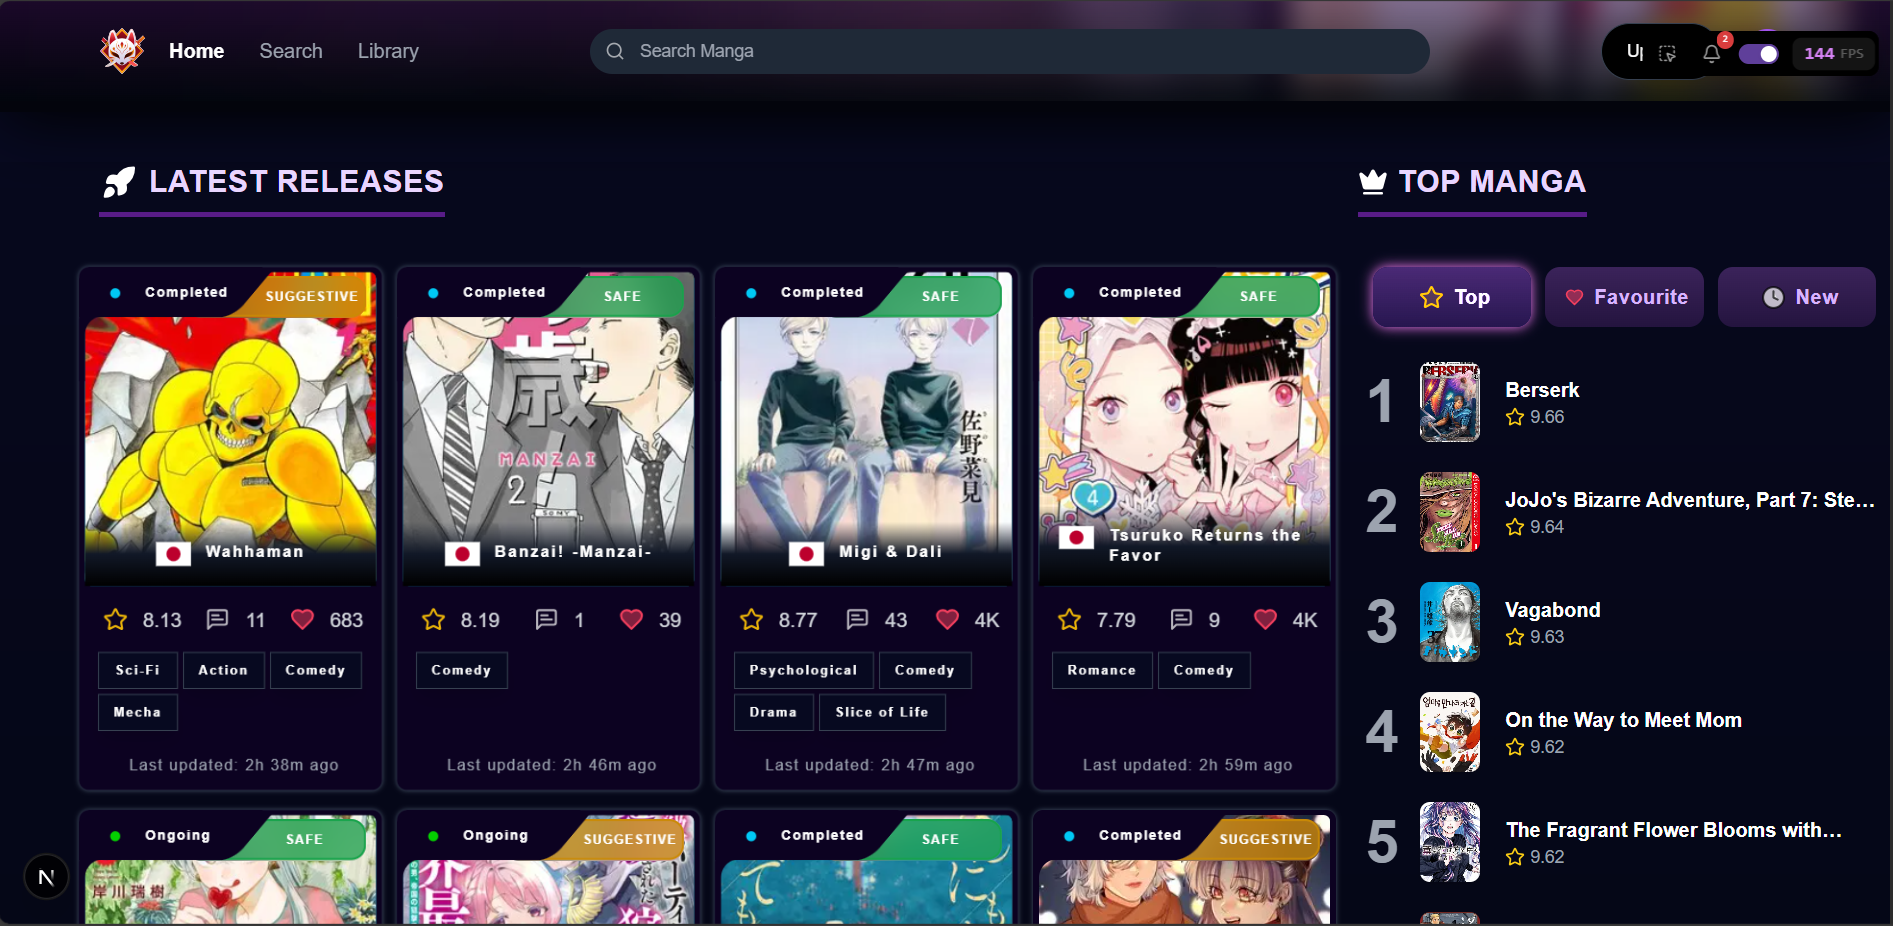
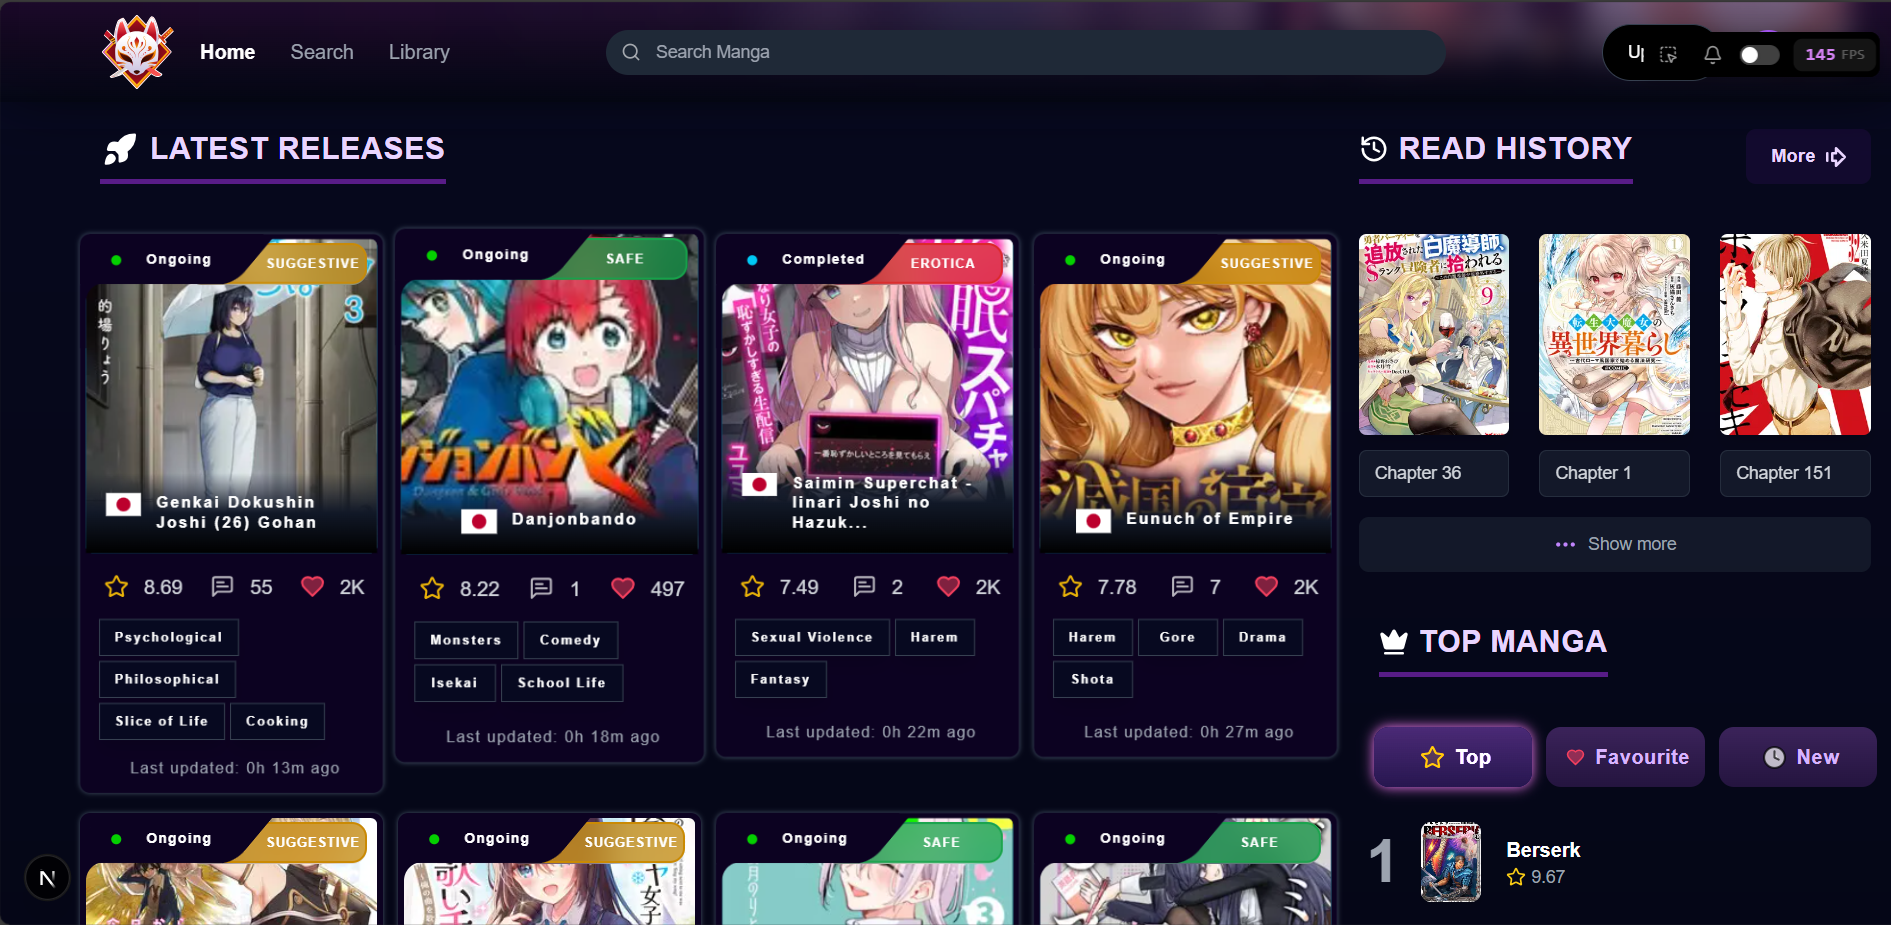
fixed the folder strucure of providers ...then went to MangaContext and made the histroy have the manga,chapters,lastreadChapter and AllChapterList ...then added the new component in the Mnaga-list which shows the manga of which user has seen atleast one chapter ...and when clicked on manga coverima

diff --git a/app/Components/MangaListComponents/MangaReadHistory.jsx b/app/Components/MangaListComponents/MangaReadHistory.jsx
@@ -1,0 +1,124 @@
+import React, { useState, useEffect, useCallback } from 'react';
+import { useManga } from '../../providers/MangaContext';
+import { History, BookOpen, ArrowBigRightDash, Ellipsis, Plus } from 'lucide-react';
+import Image from 'next/image';
+import { useRouter } from 'next/navigation';
+
+function MangaReadHistory() {
+    const { getAllFromReadHistory, addToReadHistory, setChapterListForManga } = useManga();
+    const [readHistory, setReadHistory] = useState([]);
+    const router = useRouter();
+    const [shownMangasInHistory, setShownMangasInHistory] = useState(3)
+    const { setSelectedManga } = useManga()
+    useEffect(() => {
+        const history = getAllFromReadHistory();
+        setReadHistory(history || []);
+    }, [getAllFromReadHistory]);
+
+    const handleMangaCoverImageClicked = useCallback((manga) => {
+        setSelectedManga(manga);
+        router.push(`/manga/${manga.id}/chapters`);
+    }, [])
+
+    const handleChapterClicked = useCallback(
+        (manga, chapter, allChaptersList) => {
+            setChapterListForManga(manga.id, allChaptersList);
+            addToReadHistory(manga, chapter, allChaptersList)
+            router.push(`/manga/${manga.id}/chapter/${chapter.id}/read`);
+        },
+        [router] // Added chapters to dependencies
+    );
+
+
+    return (
+        <div className="w-full mb-9 overflow-hidden  pl-2 sm:pl-7">
+            {/* Header */}
+            <div className="pb-7 text-lg lg:text-2xl flex flex-row justify-between font-bold text-purple-200 tracking-wide uppercase ">
+                <h1 className="border-b-4 border-purple-900 flex flex-row w-fit gap-2 items-center pb-2">
+                    <History className="w-6 h-6 text-white " />
+                    <span className="line-clamp-1">
+                        Read History
+                    </span>
+                </h1>
+                <button className='text-sm p-1 pl-5 pr-4 rounded-lg mr-4 bg-purple-700/10 flex items-center gap-1 flex-row'>More <ArrowBigRightDash /></button>
+            </div>
+
+            {/* Content */}
+            <div className=" pb-1 pt-3">
+                {readHistory.length === 0 ? (
+                    <div className="flex flex-col items-center justify-center py-5">
+                        <div className="w-20 h-20 bg-gray-800 rounded-full flex items-center justify-center mb-6">
+                            <BookOpen className="w-10 h-10 text-gray-500" />
+                        </div>
+                        <h3 className="text-xl font-semibold text-gray-300 mb-2">No Reading History</h3>
+                        <p className="text-gray-500 text-center max-w-md">
+                            Start reading manga to see your reading history here
+                        </p>
+                    </div>
+                ) : (
+                    <>
+                        <div className="grid grid-cols-3 gap-6 mr-4">
+                            {readHistory.slice(0, shownMangasInHistory).map((item) => (
+                                <div
+                                    key={item.manga.id}
+                                    className="cursor-pointer"
+                                >
+                                    {/* Manga Cover */}
+                                    <div
+                                        onClick={() => handleMangaCoverImageClicked(item.manga)}
+                                        className="relative mb-3">
+                                        <Image
+                                            width={300}
+                                            height={300}
+                                            src={item.manga.coverImageUrl}
+                                            alt={item.manga.title}
+                                            className="w-full aspect-[3/4] object-cover rounded-md shadow-lg  transition-all duration-300 hover:scale-[102%]"
+                                            onError={(e) => {
[1 lines of base64/hex data omitted]
+                                            }}
+                                        />
+                                    </div>
+
+                                    {/* Chapter List */}
+                                    <div className="space-y-2">
+                                        {item.chapters?.slice(0, 1).map((chapter) => (
+                                            <div
+                                                key={chapter.id}
+                                                onClick={() => handleChapterClicked(item.manga, chapter, item.allChaptersList)}
+                                                className="bg-gray-800/50 backdrop-blur-sm rounded-md px-3 py-2 border border-gray-700/50 hover:border-purple-500/50 transition-colors duration-200"
+                                            >
+                                                <div className="text-sm text-gray-300">
+                                                    Chapter {chapter.chapter}
+                                                </div>
+                                            </div>
+                                        ))}
+
+                                    </div>
+                                </div>
+                            ))}
+                        </div>
+                        {readHistory.length>3 &&<div
+                            onClick={() => {
+                                if (shownMangasInHistory == readHistory.length) {
+                                    setShownMangasInHistory(3)
+                                }
+                                else {
+                                    setShownMangasInHistory(readHistory.length)
+                                }
+
+                            }
+                            }
+                            className="w-[100% - 16px] flex mr-4 justify-center items-center gap-2 py-3 bg-gray-800/50 rounded-lg mt-4 hover:bg-gray-700/70 transition-colors duration-200 cursor-pointer">
+                            <Ellipsis className="w-5 h-5 text-purple-400" />
+                            <span className="text-sm font-medium text-gray-400">
+                                Show {shownMangasInHistory == readHistory.length ? "less" : `more `} 
+                            </span>
+                        </div>}
+                    </>
+                )}
+            </div>
+        </div>
+    );
+}
+
+export default MangaReadHistory;

diff --git a/app/providers/MangaContext.tsx b/app/providers/MangaContext.tsx
@@ -98,25 +98,33 @@ interface Chapter {
   [key: string]: any;
 }
 
+// Define ReadHistoryEntry type with allChaptersList
+interface ReadHistoryEntry {
+  manga: Manga;
+  chapters: Chapter[];
+  lastChapterRead: Chapter | null;
+  allChaptersList: Chapter[];
+}
+
 // Define Favorite type
 interface Favorite {
   mangaInfo: Manga;
   chapterInfo: Chapter[];
 }
 
-// Update MangaContextType to include favorites
+// Update MangaContextType to reflect the new readHistory structure
 interface MangaContextType {
   selectedManga: Manga | null;
   setSelectedManga: (manga: Manga | null) => void;
   getSelectedManga: () => Manga | null;
-  addToReadHistory: (manga: Manga) => void;
-  getAllFromReadHistory: () => Manga[];
+  addToReadHistory: (manga: Manga, chapter?: Chapter, allChaptersList?: Chapter[]) => void;
+  getAllFromReadHistory: () => ReadHistoryEntry[];
   addToFavoriteChapter: (chapter: Chapter) => void;
   getAllFromFavoriteChapter: () => Chapter[];
   setChapterListForManga: (mangaId: string, chapters: Chapter[]) => void;
   getChapterListForManga: (mangaId: string) => Chapter[];
-  addToFavorite: (manga: Manga, chapter?: Chapter) => void; // New method
-  getAllFavorites: () => { [mangaId: string]: Favorite }; // New method
+  addToFavorite: (manga: Manga, chapter?: Chapter) => void;
+  getAllFavorites: () => { [mangaId: string]: Favorite };
 }
 
 const MangaContext = createContext<MangaContextType | undefined>(undefined);
@@ -127,15 +135,15 @@ const STORAGE_KEYS = {
   FAVORITE_CHAPTERS: 'favoriteChapters',
   CHAPTER_LIST: 'chapterList',
   SELECTED_MANGA: 'selectedManga',
-  FAVORITES: 'favorites', // New storage key for favorites
+  FAVORITES: 'favorites',
 };
 
 export function MangaProvider({ children }: { children: ReactNode }) {
   const [selectedManga, setSelectedMangaState] = useState<Manga | null>(null);
-  const [readHistory, setReadHistory] = useState<Manga[]>([]);
+  const [readHistory, setReadHistory] = useState<ReadHistoryEntry[]>([]);
   const [favoriteChapters, setFavoriteChapters] = useState<Chapter[]>([]);
   const [chapterLists, setChapterLists] = useState<{ [mangaId: string]: Chapter[] }>({});
-  const [favorites, setFavorites] = useState<{ [mangaId: string]: Favorite }>({}); // New state for favorites
+  const [favorites, setFavorites] = useState<{ [mangaId: string]: Favorite }>({});
 
   // Load data from localStorage on mount
   useEffect(() => {
@@ -193,9 +201,39 @@ export function MangaProvider({ children }: { children: ReactNode }) {
   };
 
   // Read History Methods
-  const addToReadHistory = (manga: Manga) => {
+  const addToReadHistory = (manga: Manga, chapter?: Chapter, allChaptersList?: Chapter[]) => {
     setReadHistory((prev) => {
-      const updatedHistory = [manga, ...prev.filter((item) => item.id !== manga.id)].slice(0, 50);
+      const existingEntry = prev.find((entry) => entry.manga.id === manga.id);
+      let updatedHistory: ReadHistoryEntry[];
+
+      if (existingEntry) {
+        // Update existing entry
+        const updatedChapters = chapter
+          ? [chapter, ...existingEntry.chapters.filter((ch) => ch.id !== chapter.id)]
+          : existingEntry.chapters;
+        updatedHistory = prev.map((entry) =>
+          entry.manga.id === manga.id
+            ? {
+                manga,
+                chapters: updatedChapters,
+                lastChapterRead: chapter || existingEntry.lastChapterRead,
+                allChaptersList: allChaptersList || existingEntry.allChaptersList,
+              }
+            : entry
+        );
+      } else {
+        // Add new entry
+        updatedHistory = [
+          {
+            manga,
+            chapters: chapter ? [chapter] : [],
+            lastChapterRead: chapter || null,
+            allChaptersList: allChaptersList || [],
+          },
+          ...prev,
+        ].slice(0, 50); // Limit history to 50 entries
+      }
+
       try {
         localStorage.setItem(STORAGE_KEYS.READ_HISTORY, JSON.stringify(updatedHistory));
       } catch (error) {

diff --git a/app/(core)/manga/[mangaId]/chapter/[chapterId]/read/page.jsx b/app/(core)/manga/[mangaId]/chapter/[chapterId]/read/page.jsx
@@ -4,7 +4,7 @@ import { useQuery } from '@tanstack/react-query';
 import { useState, useEffect, memo, useCallback, lazy, useRef, useMemo } from 'react';
 import { useParams, useRouter } from 'next/navigation';
 import { ArrowUp } from 'lucide-react';
-import { useManga } from '../../../../../../../components/providers/MangaContext';
+import { useManga } from '../../../../../../providers/MangaContext';
 
 const InfoSidebar = memo(lazy(() => import('../../../../../../Components/ReadChapterComponents/InfoSideBarModules/InfoSidebar')));
 const BottomSettings = memo(lazy(() => import('../../../../../../Components/ReadChapterComponents/BottomSettingsModules/BottomSettings')));
@@ -28,9 +28,9 @@ export default function ReadChapter() {
   const [quality, setQuality] = useState("low");
 
   const scrollContainerRef = useRef(null);
-    const { selectedManga, getChapterListForManga } = useManga();
-    const chapters =useMemo(()=>getChapterListForManga(mangaId))
-   const chapterInfo = useMemo(()=> chapters.filter((x)=>x.id==chapterId)[0]);
+  const { selectedManga, getChapterListForManga,addToReadHistory } = useManga();
+  const chapters = useMemo(() => getChapterListForManga(mangaId))
+  const chapterInfo = useMemo(() => chapters.filter((x) => x.id == chapterId)[0]);
 
   //  console.log(chapterInfo)
   const { data: pages, isLoading, isError } = useQuery({
@@ -53,6 +53,7 @@ export default function ReadChapter() {
 
   const handleChapterClick = useCallback(
     (id) => {
+      addToReadHistory(selectedManga, id)
       router.push(`/manga/${mangaId}/chapter/${id.id}/read`);
     },
     [router, mangaId, pages]
@@ -83,7 +84,7 @@ export default function ReadChapter() {
   // console.log(selectedManga);
 
   const currentChapterIndex = useMemo(() =>
-    chapters &&chapters.findIndex(ch => ch.id === chapterInfo.id),
+    chapters && chapters.findIndex(ch => ch.id === chapterInfo.id),
     [chapters, chapterInfo]
   );
   const hasPrevChapter = useMemo(() => currentChapterIndex > 0);

diff --git a/app/(core)/manga/[mangaId]/chapters/page.jsx b/app/(core)/manga/[mangaId]/chapters/page.jsx
@@ -3,7 +3,7 @@
 import { useParams, useRouter } from 'next/navigation';
 import React, { useCallback, useEffect, useState, Suspense, lazy, useMemo } from 'react';
 import LoadingSpinner from '../../../../Components/LoadingSpinner';
-import { useManga } from '../../../../../components/providers/MangaContext';
+import { useManga } from '../../../../providers/MangaContext';
 
 // Lazy load components
 const AboutManga = React.memo(
@@ -32,7 +32,7 @@ const getAvailableStorage = async () => {
 export default function MangaChapters() {
   const { mangaId } = useParams();
   const router = useRouter();
-  const { selectedManga, setChapterListForManga } = useManga();
+  const { selectedManga, setChapterListForManga,addToReadHistory } = useManga();
 
   // Use selectedManga only if it matches mangaId, else null
   const manga = useMemo(() => (selectedManga && selectedManga.id === mangaId ? selectedManga : null), []);
@@ -112,6 +112,7 @@ export default function MangaChapters() {
     (chapter) => {
       console.log('handleChapterClick - mangaId:', mangaId, 'chapters:', chapters);
       setChapterListForManga(mangaId, chapters);
+      addToReadHistory(manga,chapter,chapters)
       router.push(`/manga/${mangaId}/chapter/${chapter.id}/read`);
     },
     [mangaId, router, chapters] // Added chapters to dependencies

diff --git a/app/(core)/manga-list/page.jsx b/app/(core)/manga-list/page.jsx
@@ -10,9 +10,10 @@ import React, {
 } from 'react';
 import { useRouter } from 'next/navigation';
 import { useQuery } from '@tanstack/react-query';
-import { useManga } from '../../../components/providers/MangaContext';
+import { useManga } from '../../providers/MangaContext';
 import LoadingSpinner from '../../Components/LoadingSpinner';
 import MangaCardPagination from "../../Components/MangaListComponents/MangaCardPagination";
+import MangaReadHistory from '../../Components/MangaListComponents/MangaReadHistory';
 
 // Lazy load components with React.lazy
 const MangaCard = React.memo(
@@ -238,6 +239,7 @@ const MangaList=()=> {
           </div>
 
           <div className="md:w-[30%]">
+            <MangaReadHistory/>
             <AsideComponent
               handleMangaClicked={handleMangaClicked}
               processedMangas={processedMangas}

diff --git a/app/Components/MangaListComponents/AsideComponent.jsx b/app/Components/MangaListComponents/AsideComponent.jsx
@@ -40,8 +40,8 @@ function AsideComponent({
         <div className="w-full mb-16 overflow-hidden">
           <div className=" pl-2 sm:pl-7 text-white shadow-lg w-full">
             {/* Section Header */}
-            <div className="pb-7 text-lg lg:text-2xl flex justify-center sm:block font-bold text-purple-200 tracking-wide uppercase ">
-              <h1 className="border-b-4 border-purple-900 flex flex-row w-fit gap-2 items-center pb-2">
+            <div className="pb-7 text-lg lg:text-2xl ml-4 flex justify-center sm:block font-bold text-purple-200 tracking-wide uppercase ">
+              <h1 className="border-b-4 border-purple-900 flex flex-row w-fit  gap-2 items-center pb-2">
                 <Crown className="w-6 h-6 text-white fill-white" />
                 <span className="line-clamp-1">
                   {(selectedCategory === "Top"

diff --git a/app/layout.tsx b/app/layout.tsx
@@ -2,10 +2,10 @@
 
 import { Suspense, useEffect, useState } from 'react';
 import Script from 'next/script';
-import TanstackProvider from '@/components/providers/TanstackProvider';
+import TanstackProvider from '@/app/providers/TanstackProvider';
 import LoadingSpinner from './Components/LoadingSpinner';
 import TopNavBar from './Components/TopNavbar';
-import { MangaProvider } from '@/components/providers/MangaContext';
+import { MangaProvider } from '@/app/providers/MangaContext';
 import './globals.css';
 
 export default function RootLayout({

diff --git a/app/Components/ReadChapterComponents/InfoSideBarModules/InfoSidebar.jsx b/app/Components/ReadChapterComponents/InfoSideBarModules/InfoSidebar.jsx
@@ -7,7 +7,7 @@ import {
 } from 'lucide-react';
 import DifferentMetaDataChapter from './DifferentMetaDataChapter';
 import Image from 'next/image';
-import { useManga } from '../../../../components/providers/MangaContext';
+import { useManga } from '../../../providers/MangaContext';
 
 // const MemoPageAndChapterNavigation = memo(PageAndChapterNavigation);
 const MemoCollapsedSideBarStrip = memo(CollapsedSideBarStrip);
